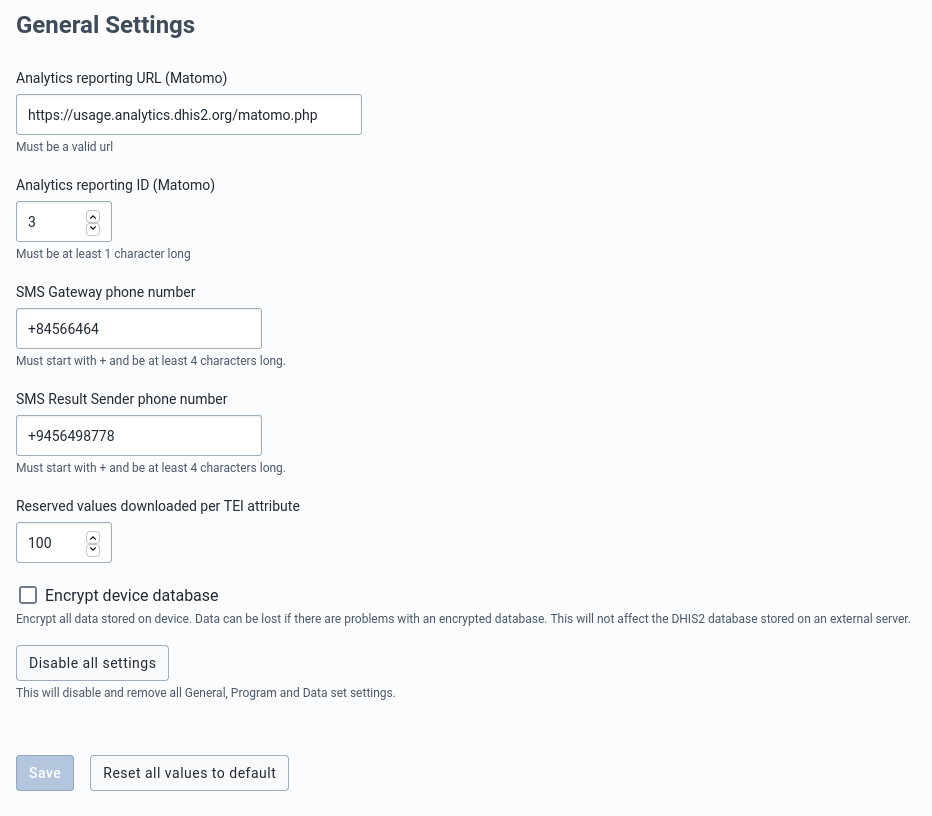
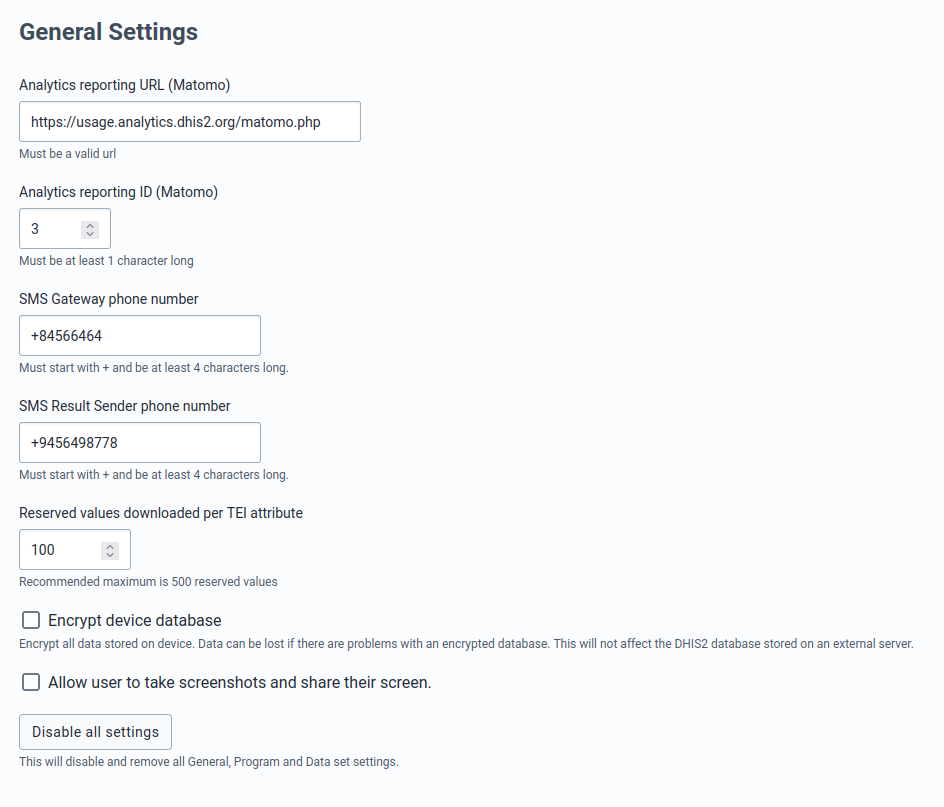
docs: android settings webapp 2.1.1 doc additions

diff --git a/content/capture-app/app-android-settings-configuration.md b/content/capture-app/app-android-settings-configuration.md
@@ -4,7 +4,7 @@
 This section focuses on the [Android Settings Web App](https://apps.dhis2.org/app/a1bd6b5b-de8c-4998-8d34-56c18a139683) implementation.
 
 
-The [https://apps.dhis2.org/app/a1bd6b5b-de8c-4998-8d34-56c18a139683](Android Settings Web App) allows admins to configure synchronization parameters for the DHIS2 Android App, encrypt the local database of the Android devices, customize the appearance of Programs, Data sets, and Home screen, and add TEI Analytics items. The configuration parameters defined within this web app will overwrite the settings of all Android devices using the DHIS2 Android Capture App.
+The [Android Settings Web App](https://apps.dhis2.org/app/a1bd6b5b-de8c-4998-8d34-56c18a139683) allows admins to configure synchronization parameters for the DHIS2 Android App, encrypt the local database of the Android devices, customize the appearance of Programs, Data sets, and Home screen, and add TEI Analytics items. The configuration parameters defined within this web app will overwrite the settings of all Android devices using the DHIS2 Android Capture App.
 
 Please note that in this version of the Web App, only users with 'ALL' authority are able to define those parameters in the configuration. Other users having access to the web app can see the value of the parameters, but cannot edit them. 
 
@@ -21,25 +21,24 @@ Includes configurations such as the Matomo URL and project ID, the number of res
 
 ### Matomo configuration
 
-The DHIS2 Android App sends anonymised analytics that can be used to evaluate performance and/or detect problems at an early stage. [Matomo](https: //matomo.org) is the tool used for this and running in a specific server not accessible to the general public. However, implementations can set up their own
+The DHIS2 Android App sends anonymize analytics that can be used to evaluate performance and/or detect problems at an early stage. [Matomo](https://matomo.org) is the tool used for this and running in a specific server not accessible to the general public. However, implementations can set up their own
  Matomo instance (or using the cloud version) in order to collect and analyse the statistics. 
 
-Once you have your Matomo instance ready you should get the URLs and the project ID like shown in the picture below (left). The ID can be introduced direct ly but the URL needs to be followed with */matomo.php* as shown below (right).
+Once you have your Matomo instance ready you should get the URLs and the project ID like shown in the picture below (left). The ID can be introduced directly but the URL needs to be followed with */matomo.php* and start with *https* or *http* as shown below (right).
 
 ![](resources/images/capture-app-matomo-instance.png){width=33%}
 ![](resources/images/capture-app-matomo-settings.png){width=33%}
 
 
-### Encrypt device database
-This will force all the devices to store the database encrypted increasing the security level against data theft attacks.
-
 ### Mobile configuration
 This section allows admin users to edit the SMS gateway ad result sender phone number.
 
 ### Reserved values
-This will specify the number of values per TEI attribute reserved to download in the devices.
+This will specify the number of values per TEI attribute reserved to download in the devices. By default, the Android App reserves 100 Ids, but it is possible to add or reduce this number.
 
 ### Encrypt device database
+This will force all the devices to store the database encrypted increasing the security level against data theft attacks.
+
 By default, the DHIS2 Android App database is not encrypted, but an admin can check the *Encrypt device database* to encrypt the metadata and data stored in every device. Encrypting the database will have an impact on the database volume and performance (degradation between 10-15%) of the Android app. Note that at the moment of selecting or unselecting this option, no data is lost (even if it hasn't been previously synchronized with the server)
 
 > **Warning**
@@ -48,7 +47,9 @@ By default, the DHIS2 Android App database is not encrypted, but an admin can ch
 >
 > By default, the Android app database is not encrypted, but an admin can check the *Encrypt device database* to encrypt the metadata and data stored in every device. Encrypting the database will have an impact on the database volume and performance of the Android app. Note that at the moment of selecting or unselecting this option, no data is lost (even if it hasn't been previously synchronized with the server)
 
- 
+### Allow screenshots
+This section allows to configure the possibility to take screenshots or screen sharing using the Android Capture App. Please note that the default behavior is deactivated screenshots.
+
 ### Disable all settings
 By clicking this button, the user will remove all Android configuration settings. No configuration will be applied to the Android App (if this is the case, the sync parameters applied are the ones defined in the Android Capture app).
 
@@ -67,6 +68,20 @@ Data sync
 :	Admin users can choose how often the data will sync. e.g. Syncing data every 6 hours.
 
 ![](resources/images/capture-app-sync-global.png){width=33%}
+
+
+Use the new Tracker Importer
+:	Admin users can choose which tracker importer endpoint will be used.
+
+> **Warning**
+>
+> This option is only available if the Android Settings Webapp is used from version 2.37 DHIS2 API onwards.
+>
+> By default, the Android app uses the legacy tracker importer */api/trackedEntityInstances* but an admin can check this option and the importer introduced in 2.37 */api/tracker* endpoint will be used.
+>
+> ![](resources/images/capture-app-sync-global-importer.png){width=50%}
+>
+
 
 
 ### Program { #capture_app_android_settings_webapp_synchronization_program }
@@ -113,11 +128,11 @@ In the case that any specific settings has been saved, a table will show a summa
 
 > **Caution**
 >
-> Using specific settings per program might have unexpected results in the number of TEIs downloaded and the total amount might exceed the one defined in the Global Settings. This is due to how the appliation download the TEIs from the server. The Android client will first download a max number of TEIs from the server based on the Organistation Units where the user has access and based on the lastUpdate field. Afterwards it will download a max munumber of TEIs from the specific programs. Therefore, if the TEIs downloaded from the Global setting (500 in the example above) have been updated more recently than any of the TEIs from a specific program (500 for Malaria case diagnosis, treatment and investigation) the Android client will end up downloading 1000 TEI.
+> Using specific settings per program might have unexpected results in the number of TEIs downloaded and the total amount might exceed the one defined in the Global Settings. This is due to how the application download the TEIs from the server. The Android client will first download a max number of TEIs from the server based on the Organisation Units where the user has access and based on the lastUpdate field. Afterwards it will download a max number of TEIs from the specific programs. Therefore, if the TEIs downloaded from the Global setting (500 in the example above) have been updated more recently than any of the TEIs from a specific program (500 for Malaria case diagnosis, treatment and investigation) the Android client will end up downloading 1000 TEI.
 > 
-> This might look confusing at first, but once understood can be used to ensure a minium (and maximum) number of TEIs for a specific program will be downloaded which can be very useful in specific implementations.
+> This might look confusing at first, but once understood can be used to ensure a minimum (and maximum) number of TEIs for a specific program will be downloaded which can be very useful in specific implementations.
 >
-> Imagine an implementation where it must be ensured that the Android user has all the TEIs of a specific program in a server where the same user has access to other Organisation Units where other TEIs might be enrolled in another program. The program is called Community Care and it has 17 TEIs which have been updated very long time ago. The administrator can ensure that the 17 TEIs will be donwloaded by setting anything in Global Settings (if needed to reduce bandwidth a very low value should be set) and a at least 17 for the specific program as show in the image below:
+> Imagine an implementation where it must be ensured that the Android user has all the TEIs of a specific program in a server where the same user has access to other Organisation Units where other TEIs might be enrolled in another program. The program is called Community Care, and it has 17 TEIs which have been updated very long time ago. The administrator can ensure that the 17 TEIs will be downloaded by setting anything in Global Settings (if needed to reduce bandwidth a very low value should be set) and an at least 17 for the specific program as show in the image below:
 >
 > ![](resources/images/capture-app-program-specific-example-web.png){width=50%}
 >
@@ -247,7 +262,7 @@ Also, even though these analytics are created using the android settings web app
 
 The scope of the analysis is the TEI, so the visualizations will be displayed in the TEI dashboard of the android app.
 
-The purpose of this section is to define visualizations to show evolution of dataelements and program indicators over time. Based on that, it will only take into cosideration dataelements that belongs to a repeatable program stage, or programindicators which formula contains at least one dataelement that belongs to a repeatable program stage.
+The purpose of this section is to define visualizations to show evolution of *data elements* and *program indicators* over time. Based on that, it will only take into consideration data elements that belongs to a repeatable program stage, or program indicators which formula contains at least one data element that belongs to a repeatable program stage.
 
 To create a **TEI Analytics** item:
 
@@ -261,9 +276,9 @@ To create a **WHO Nutrition Analytics** item:
 
 1. Select a program, a program stage, and WHO nutrition as visualization type.
 2. Choose a WHO visualization type that can be Height for Age (HFA), Weight for Age (WFA) or Weight for Height (WFH).
-3. Select the trackedentityattribute that represents the gender. You have then to specify the option for Male 'Male title' and the option for Female 'Female title'. Normally they will be option codes.
-4. Choose the dataelement/programindicator that will be displayed in the Horizontal (x) axis
-5. Choose the dataelement/programindicator that will be displayed in the Vertical (y) axis
+3. Select the tracked entity attribute that represents the gender. You have then to specify the option for Male 'Male title' and the option for Female 'Female title'. Normally they will be option codes.
+4. Choose the data element/program indicator that will be displayed in the Horizontal (x) axis
+5. Choose the data element/program indicator that will be displayed in the Vertical (y) axis
 
 
 ![](resources/images/capture-app-analytics-who-item.png)
@@ -274,7 +289,7 @@ If any TEI Analytics item has been created, a table will show the item's title a
 
 ### Home
 
-Home visualizations are displayed in the home screen (Anlaytics tab) of the android app.
+Home visualizations are displayed in the home screen (Analytics tab) of the android app.
 
 All items available are first created in the Data visualizer app in DHIS2 and configured in the android settings app.
 
@@ -293,6 +308,13 @@ To create a **Home** item:
 
 ![](resources/images/capture-app-analytics-home-createdGroup.png)
 
+> **Note:**
+>
+> Visualizations that are added with no group selected, will be displayed in a common "group"
+>
+> ![](resources/images/capture-app-analytics-default-group.png)
+>
+
 To remove a **Home** item:
 
 1. Search for the item by expanding the groups
@@ -309,7 +331,7 @@ To remove a **Home** group:
 3. Click on "Delete"
 4. Click on the "Save" button
 
-All of the items associated to that group will be deleted
+All the items associated to that group will be deleted
 
 ![](resources/images/capture-app-analytics-home-deleteGroup.png)
 
@@ -320,7 +342,7 @@ To reset all values:
 
 ### Program
 
-Program visualizations are displayed in the search screen (Anlaytics tab) in tracker programs or in the list screen (Analytics tab) in event programs of the android app.
+Program visualizations are displayed in the search screen (Analytics tab) in tracker programs or in the list screen (Analytics tab) in event programs of the android app.
 
 All items available are first created in the Data visualizer app in DHIS2 and configured in the android settings app.
 
@@ -354,7 +376,7 @@ To remove a **program** group:
 3. Click on "Delete"
 4. Click on the "Save" button
 
-All of the items associated to that group will be deleted
+All the items associated to that group will be deleted
 
 ![](resources/images/capture-app-analytics-program-deleteGroup.png)
 
@@ -399,7 +421,7 @@ To remove a **Data Set** group:
 3. Click on "Delete"
 4. Click on the "Save" button
 
-All of the items associated to that group will be deleted
+All the items associated to that group will be deleted
 
 ![](resources/images/capture-app-analytics-dataset-deleteGroup.png)
 
@@ -433,16 +455,16 @@ To run the test:
 
 ### Analytics Limitations
 
-Since the aggregations and calculations displayed are calculated in the device, the implementation of analytics is limited compared to web. In summary the compatible and suported objects and features are:
+Since the aggregations and calculations displayed are calculated in the device, the implementation of analytics is limited compared to web. In summary the compatible and supported objects and features are:
 
-- Well formed analytic objects (series, categories, filters)
+- Well-formed analytic objects (series, categories, filters)
 - User has view access
 - Limitations for Pivot Tables
   - Number of header lines: 1
   - Number of header columns: 1
 - Limitations for Charts
   - Number of Series: No limit (but remember you are rendering in a small screen)
-  - Number of Categories (doesn’t apply for pie chart): No limit
+  - Number of Categories (doesn't apply for pie chart): No limit
 
 There are many more restrictions which apply to Android Analytics regarding the many configuration options available in the Web Visualizer as well as the supported functions and calculations related to indicators and program indicators. [This table](https://docs.google.com/spreadsheets/d/1127cz7M0K4fux5CU0V54V2Z77NZWCr0BTrZ6jcCec4Q) summarises all supported features.
 
@@ -486,11 +508,11 @@ Internally all settings are stored in [Datastore](https://docs.dhis2.org/master/
 
 Datastore structure:
 
-| Item        | Description | Data type |
-| ----------- | ----------- | --------- |
-| Namespace   | Namespace for organization of entries | String |
-| Key         | Key for identification of values | String |
-| Value       | Value holding the information for the entry | JSON |
+| Item      | Description                                 | Data type |
+|-----------|---------------------------------------------|-----------|
+| Namespace | Namespace for organization of entries       | String    |
+| Key       | Key for identification of values            | String    |
+| Value     | Value holding the information for the entry | JSON      |
 
 ### Save configuration parameters { #capture_app_android_settings_webapp_save_config }
 
